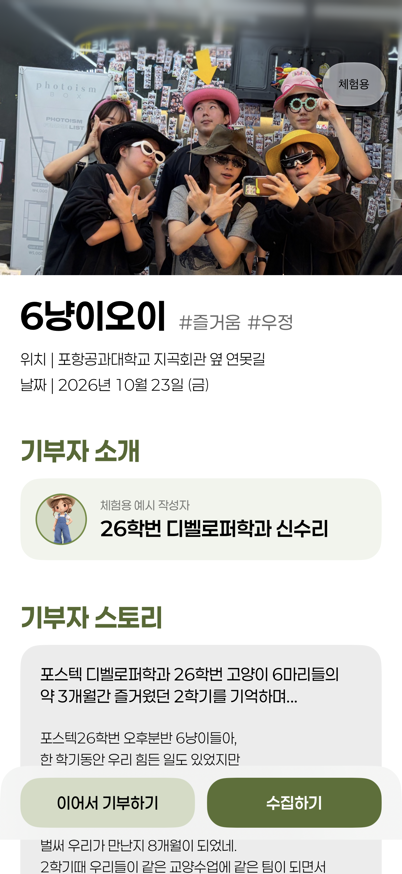
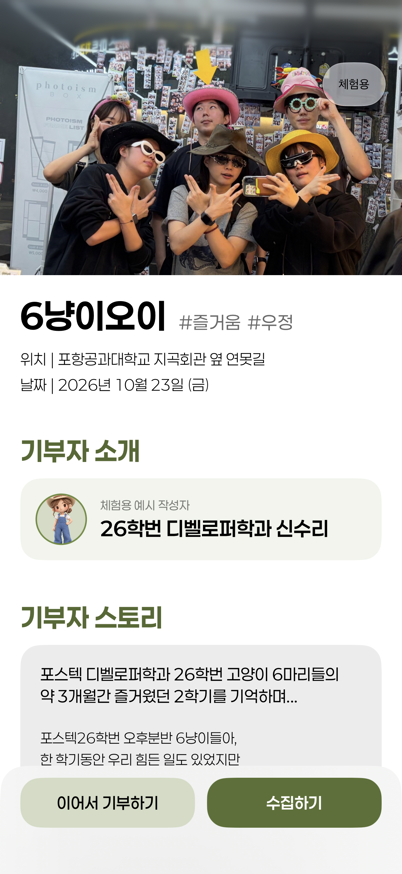
[fix] 체험 화면 하단 안전 영역 배경 보완

Changed region(s): [[0.0896, 0.9577, 0.806, 1.0]]

diff --git a/apps/ios/OiDonation/Shared/Components/OiSampleStoryDetailView.swift b/apps/ios/OiDonation/Shared/Components/OiSampleStoryDetailView.swift
@@ -49,7 +49,12 @@ struct OiSampleStoryDetailView: View {
                 }.buttonStyle(.plain).accessibilityIdentifier("sample.donationInfo")
                 OiSampleCollectButton(story: story, onCollect: onCollect)
             }.padding(.horizontal, 20).padding(.vertical, 12)
-                .background(.regularMaterial, in: UnevenRoundedRectangle(topLeadingRadius: 25, topTrailingRadius: 25))
+                .background {
+                    // Extend only the panel background below the home indicator.
+                    UnevenRoundedRectangle(topLeadingRadius: 25, topTrailingRadius: 25)
+                        .fill(.regularMaterial)
+                        .ignoresSafeArea(.container, edges: .bottom)
+                }
         }
         .alert("체험용 이야기예요", isPresented: $showingDonationNotice) {
             Button("확인", role: .cancel) {}

diff --git a/apps/ios/OiDonation/Shared/Components/OiSampleMapView.swift b/apps/ios/OiDonation/Shared/Components/OiSampleMapView.swift
@@ -81,7 +81,12 @@ struct OiSampleMapView: View {
                 }.padding(.bottom, 20)
             }.scrollIndicators(.hidden)
         }.padding(20)
-            .background(.regularMaterial, in: UnevenRoundedRectangle(topLeadingRadius: 35, topTrailingRadius: 35))
+            .background {
+                // Extend only the panel background below the home indicator.
+                UnevenRoundedRectangle(topLeadingRadius: 35, topTrailingRadius: 35)
+                    .fill(.regularMaterial)
+                    .ignoresSafeArea(.container, edges: .bottom)
+            }
     }
 
     private func markers(in size: CGSize) -> some View {

diff --git a/docs/verification/sample-figma-214.md b/docs/verification/sample-figma-214.md
@@ -44,3 +44,11 @@
 실기기 카메라로 움직이며 3마리를 수집하는 AR 과정과 실기기 App Clip 실행, Apple 배포 검증은 이번에 실행하지 않았다. Simulator의 AR 미지원 안내까지 확인했으며 서명 없는 Simulator의 계정 키체인 오류는 계정 기능 검증에 사용하지 않았다. App Store 업로드나 develop/main 병합은 하지 않는다.
 
 대표 캡처: [지도](sample-214/sample-map-402x874.png), [목록](sample-214/sample-list-402x874.png), [요약](sample-214/sample-summary-402x874.png), [상세](sample-214/sample-detail-402x874.png), [AR 윤곽과 수집](sample-214/sample-ar-slots-1-402x874.png).
+
+### 2026-11-07 하단 안전 영역 후속 수정
+
+체험 지도 목록과 이야기 상세의 하단 버튼 배경이 안전 영역 위에서 끝나 지도·본문이 홈 인디케이터 아래로 그대로 보이던 틈을 수정했다. 둥근 Material 배경에만 하단 컨테이너 안전 영역 확장을 적용한다. 버튼과 스크롤 콘텐츠의 배치, 위쪽 둥근 모서리, 목록 펼침 동작은 유지한다. 본 앱과 App Clip이 같은 뷰를 사용한다.
+
+`OiFlowChecks`의 `testSampleExperienceCaptures`를 재실행하여 24개 캡처를 생성했다. 375×667 / 402×874 / 440×956 / 최대 Dynamic Type에서 목록과 상세 하단의 배경이 화면 끝까지 이어지는지 확인했다. 기존 402×874 지도·목록·상세 캡처를 수정 후 결과로 갱신했다. 새 테스트를 추가하거나 개인 서명 설정을 변경하지 않았다.
+
+후속 실기기 확인: 기존 수동 서명으로 본 앱·내장 App Clip의 iPhone Debug 빌드와 서명 검증을 통과했다. Jun iPhone(iOS 26.7.2)에 수정 앱을 업데이트 설치하고 실행했다. 이 기기의 App Clip 실행과 실제 AR 플레이는 이번 하단 배경 수정의 검증에 포함하지 않았다.
